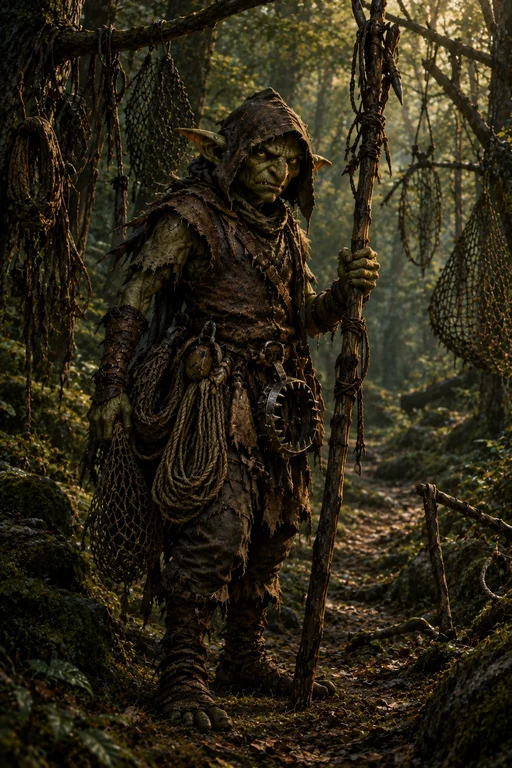
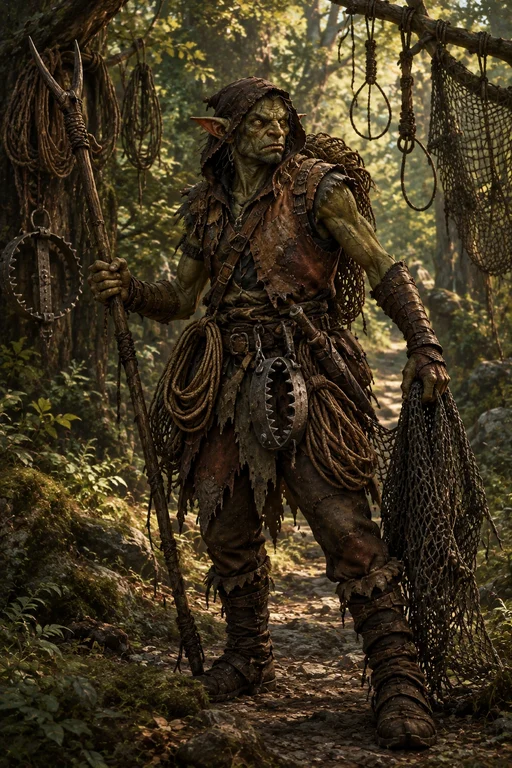
Портреты: загонщик, вор, рогатый заяц, болотная жаба; новый зверолов
Claude-Session: https://claude.ai/code/session_01LqZZvha4EFgFgo5Ve6sugx

diff --git a/www/index.html b/www/index.html
@@ -1780,10 +1780,10 @@ const DISTRICTS = [
 
 // Готовые рисованные картинки (webp) заменяют векторные заглушки.
 // Дата сборки для телефона: build.sh вписывает её сюда, в веб-версии строка пустая.
-const APP_BUILD = "25.10.2026 03:27";
-const APP_VERSION = 1792880875;                 // номер сборки, тоже вписывает build.sh
+const APP_BUILD = "25.10.2026 03:31";
+const APP_VERSION = 1792881066;                 // номер сборки, тоже вписывает build.sh
 const UPDATE_URL = "https://raw.githubusercontent.com/Sayat9/Sputnik/main/www/";
-const RASTER = new Set(["items/mace", "items/warhammer", "items/armor-leather", "items/armor-hide", "items/armor-chainmail", "items/steel-dagger", "items/steel-sword", "items/steel-greatsword", "items/steel-shield", "items/steel-tower-shield", "items/shortbow", "items/longbow", "items/rapier", "items/shield", "items/tower-shield", "items/unknown-mushroom", "items/stone-9", "items/stone-8", "items/stone-7", "items/ration", "items/potion", "items/torch", "items/arrows", "items/clothes", "items/shovel", "items/shovel-good", "items/shovel-best", "items/dagger", "items/sword", "items/greatsword", "items/spear", "monsters/goblin-king-face", "monsters/goblin-king-full", "monsters/goblin-bomber-face", "monsters/goblin-bomber-full", "monsters/hobgoblin-shield-face", "monsters/hobgoblin-shield-full", "races/barbarian", "races/human", "races/dwarf", "races/beastkin", "races/fairy", "races/dragon", "monsters/goblin-face", "monsters/goblin-full", "monsters/goblin-archer-face", "monsters/goblin-archer-full", "monsters/goblin-sword-face", "monsters/goblin-sword-full", "monsters/goblin-spear-face", "monsters/goblin-spear-full", "monsters/wolf-face", "monsters/wolf-full", "monsters/fox-face", "monsters/fox-full", "monsters/mouse-face", "monsters/mouse-full", "monsters/bat-face", "monsters/bat-full", "monsters/hobgoblin-face", "monsters/hobgoblin-full", "monsters/zombie-face", "monsters/zombie-full", "monsters/skeleton-face", "monsters/skeleton-full", "monsters/skeleton-archer-face", "monsters/skeleton-archer-full", "monsters/ghoul-face", "monsters/ghoul-full", "monsters/dark-bear-face", "monsters/dark-bear-full", "monsters/skeleton-warrior-face", "monsters/skeleton-warrior-full", "monsters/living-stone-face", "monsters/living-stone-full", "monsters/wisp-face", "monsters/wisp-full", "monsters/pixie-face", "monsters/pixie-full", "monsters/green-boulder-face", "monsters/green-boulder-full", "monsters/stone-guardian-face", "monsters/stone-guardian-full", "monsters/spider-queen-face", "monsters/spider-queen-full", "monsters/ash-wraith-face", "monsters/ash-wraith-full", "monsters/ash-spirit-face", "monsters/ash-spirit-full", "monsters/plague-fat-face", "monsters/plague-fat-full", "monsters/bone-hound-face", "monsters/bone-hound-full", "monsters/dust-crawler-face", "monsters/dust-crawler-full", "monsters/faceless-ringer-face", "monsters/faceless-ringer-full", "monsters/mirror-dead-face", "monsters/mirror-dead-full", "monsters/whisperer-face", "monsters/whisperer-full", "monsters/morok-face", "monsters/morok-full", "monsters/grey-shade-face", "monsters/grey-shade-full", "monsters/blackwing-face", "monsters/blackwing-full", "monsters/swamp-fang-face", "monsters/swamp-fang-full", "monsters/web-spider-face", "monsters/web-spider-full", "monsters/goblin-shaman-face", "monsters/goblin-shaman-full", "monsters/goblin-assassin-face", "monsters/goblin-assassin-full", "monsters/goblin-trapper-face", "monsters/goblin-trapper-full", "monsters/goblin-elder-face", "monsters/goblin-elder-full", "monsters/hobgoblin-brute-face", "monsters/hobgoblin-brute-full", "monsters/hobgoblin-thrower-face", "monsters/hobgoblin-thrower-full", "items/compass"]);
+const RASTER = new Set(["items/mace", "items/warhammer", "items/armor-leather", "items/armor-hide", "items/armor-chainmail", "items/steel-dagger", "items/steel-sword", "items/steel-greatsword", "items/steel-shield", "items/steel-tower-shield", "items/shortbow", "items/longbow", "items/rapier", "items/shield", "items/tower-shield", "items/unknown-mushroom", "items/stone-9", "items/stone-8", "items/stone-7", "items/ration", "items/potion", "items/torch", "items/arrows", "items/clothes", "items/shovel", "items/shovel-good", "items/shovel-best", "items/dagger", "items/sword", "items/greatsword", "items/spear", "monsters/goblin-king-face", "monsters/goblin-king-full", "monsters/goblin-bomber-face", "monsters/goblin-bomber-full", "monsters/hobgoblin-shield-face", "monsters/hobgoblin-shield-full", "races/barbarian", "races/human", "races/dwarf", "races/beastkin", "races/fairy", "races/dragon", "monsters/goblin-face", "monsters/goblin-full", "monsters/goblin-archer-face", "monsters/goblin-archer-full", "monsters/goblin-sword-face", "monsters/goblin-sword-full", "monsters/goblin-spear-face", "monsters/goblin-spear-full", "monsters/wolf-face", "monsters/wolf-full", "monsters/fox-face", "monsters/fox-full", "monsters/mouse-face", "monsters/mouse-full", "monsters/bat-face", "monsters/bat-full", "monsters/hobgoblin-face", "monsters/hobgoblin-full", "monsters/zombie-face", "monsters/zombie-full", "monsters/skeleton-face", "monsters/skeleton-full", "monsters/skeleton-archer-face", "monsters/skeleton-archer-full", "monsters/ghoul-face", "monsters/ghoul-full", "monsters/dark-bear-face", "monsters/dark-bear-full", "monsters/skeleton-warrior-face", "monsters/skeleton-warrior-full", "monsters/living-stone-face", "monsters/living-stone-full", "monsters/wisp-face", "monsters/wisp-full", "monsters/pixie-face", "monsters/pixie-full", "monsters/green-boulder-face", "monsters/green-boulder-full", "monsters/stone-guardian-face", "monsters/stone-guardian-full", "monsters/spider-queen-face", "monsters/spider-queen-full", "monsters/ash-wraith-face", "monsters/ash-wraith-full", "monsters/ash-spirit-face", "monsters/ash-spirit-full", "monsters/plague-fat-face", "monsters/plague-fat-full", "monsters/bone-hound-face", "monsters/bone-hound-full", "monsters/dust-crawler-face", "monsters/dust-crawler-full", "monsters/faceless-ringer-face", "monsters/faceless-ringer-full", "monsters/mirror-dead-face", "monsters/mirror-dead-full", "monsters/whisperer-face", "monsters/whisperer-full", "monsters/morok-face", "monsters/morok-full", "monsters/grey-shade-face", "monsters/grey-shade-full", "monsters/blackwing-face", "monsters/blackwing-full", "monsters/swamp-fang-face", "monsters/swamp-fang-full", "monsters/web-spider-face", "monsters/web-spider-full", "monsters/goblin-shaman-face", "monsters/goblin-shaman-full", "monsters/goblin-assassin-face", "monsters/goblin-assassin-full", "monsters/goblin-trapper-face", "monsters/goblin-trapper-full", "monsters/goblin-elder-face", "monsters/goblin-elder-full", "monsters/hobgoblin-brute-face", "monsters/hobgoblin-brute-full", "monsters/hobgoblin-thrower-face", "monsters/hobgoblin-thrower-full", "monsters/hobgoblin-driver-face", "monsters/hobgoblin-driver-full", "monsters/goblin-thief-face", "monsters/goblin-thief-full", "monsters/horned-hare-face", "monsters/horned-hare-full", "monsters/swamp-toad-face", "monsters/swamp-toad-full", "items/compass"]);
 const artPath = p => `assets/${p}.${RASTER.has(p) ? "webp" : "svg"}`;
 const ART = {
   weapon: id => artPath(`items/${id}`),

diff --git a/app/index.html b/app/index.html
@@ -1778,7 +1778,7 @@ const DISTRICTS = [
 const APP_BUILD = "";
 const APP_VERSION = 0;                 // номер сборки, тоже вписывает build.sh
 const UPDATE_URL = "https://raw.githubusercontent.com/Sayat9/Sputnik/main/www/";
-const RASTER = new Set(["items/mace", "items/warhammer", "items/armor-leather", "items/armor-hide", "items/armor-chainmail", "items/steel-dagger", "items/steel-sword", "items/steel-greatsword", "items/steel-shield", "items/steel-tower-shield", "items/shortbow", "items/longbow", "items/rapier", "items/shield", "items/tower-shield", "items/unknown-mushroom", "items/stone-9", "items/stone-8", "items/stone-7", "items/ration", "items/potion", "items/torch", "items/arrows", "items/clothes", "items/shovel", "items/shovel-good", "items/shovel-best", "items/dagger", "items/sword", "items/greatsword", "items/spear", "monsters/goblin-king-face", "monsters/goblin-king-full", "monsters/goblin-bomber-face", "monsters/goblin-bomber-full", "monsters/hobgoblin-shield-face", "monsters/hobgoblin-shield-full", "races/barbarian", "races/human", "races/dwarf", "races/beastkin", "races/fairy", "races/dragon", "monsters/goblin-face", "monsters/goblin-full", "monsters/goblin-archer-face", "monsters/goblin-archer-full", "monsters/goblin-sword-face", "monsters/goblin-sword-full", "monsters/goblin-spear-face", "monsters/goblin-spear-full", "monsters/wolf-face", "monsters/wolf-full", "monsters/fox-face", "monsters/fox-full", "monsters/mouse-face", "monsters/mouse-full", "monsters/bat-face", "monsters/bat-full", "monsters/hobgoblin-face", "monsters/hobgoblin-full", "monsters/zombie-face", "monsters/zombie-full", "monsters/skeleton-face", "monsters/skeleton-full", "monsters/skeleton-archer-face", "monsters/skeleton-archer-full", "monsters/ghoul-face", "monsters/ghoul-full", "monsters/dark-bear-face", "monsters/dark-bear-full", "monsters/skeleton-warrior-face", "monsters/skeleton-warrior-full", "monsters/living-stone-face", "monsters/living-stone-full", "monsters/wisp-face", "monsters/wisp-full", "monsters/pixie-face", "monsters/pixie-full", "monsters/green-boulder-face", "monsters/green-boulder-full", "monsters/stone-guardian-face", "monsters/stone-guardian-full", "monsters/spider-queen-face", "monsters/spider-queen-full", "monsters/ash-wraith-face", "monsters/ash-wraith-full", "monsters/ash-spirit-face", "monsters/ash-spirit-full", "monsters/plague-fat-face", "monsters/plague-fat-full", "monsters/bone-hound-face", "monsters/bone-hound-full", "monsters/dust-crawler-face", "monsters/dust-crawler-full", "monsters/faceless-ringer-face", "monsters/faceless-ringer-full", "monsters/mirror-dead-face", "monsters/mirror-dead-full", "monsters/whisperer-face", "monsters/whisperer-full", "monsters/morok-face", "monsters/morok-full", "monsters/grey-shade-face", "monsters/grey-shade-full", "monsters/blackwing-face", "monsters/blackwing-full", "monsters/swamp-fang-face", "monsters/swamp-fang-full", "monsters/web-spider-face", "monsters/web-spider-full", "monsters/goblin-shaman-face", "monsters/goblin-shaman-full", "monsters/goblin-assassin-face", "monsters/goblin-assassin-full", "monsters/goblin-trapper-face", "monsters/goblin-trapper-full", "monsters/goblin-elder-face", "monsters/goblin-elder-full", "monsters/hobgoblin-brute-face", "monsters/hobgoblin-brute-full", "monsters/hobgoblin-thrower-face", "monsters/hobgoblin-thrower-full", "items/compass"]);
+const RASTER = new Set(["items/mace", "items/warhammer", "items/armor-leather", "items/armor-hide", "items/armor-chainmail", "items/steel-dagger", "items/steel-sword", "items/steel-greatsword", "items/steel-shield", "items/steel-tower-shield", "items/shortbow", "items/longbow", "items/rapier", "items/shield", "items/tower-shield", "items/unknown-mushroom", "items/stone-9", "items/stone-8", "items/stone-7", "items/ration", "items/potion", "items/torch", "items/arrows", "items/clothes", "items/shovel", "items/shovel-good", "items/shovel-best", "items/dagger", "items/sword", "items/greatsword", "items/spear", "monsters/goblin-king-face", "monsters/goblin-king-full", "monsters/goblin-bomber-face", "monsters/goblin-bomber-full", "monsters/hobgoblin-shield-face", "monsters/hobgoblin-shield-full", "races/barbarian", "races/human", "races/dwarf", "races/beastkin", "races/fairy", "races/dragon", "monsters/goblin-face", "monsters/goblin-full", "monsters/goblin-archer-face", "monsters/goblin-archer-full", "monsters/goblin-sword-face", "monsters/goblin-sword-full", "monsters/goblin-spear-face", "monsters/goblin-spear-full", "monsters/wolf-face", "monsters/wolf-full", "monsters/fox-face", "monsters/fox-full", "monsters/mouse-face", "monsters/mouse-full", "monsters/bat-face", "monsters/bat-full", "monsters/hobgoblin-face", "monsters/hobgoblin-full", "monsters/zombie-face", "monsters/zombie-full", "monsters/skeleton-face", "monsters/skeleton-full", "monsters/skeleton-archer-face", "monsters/skeleton-archer-full", "monsters/ghoul-face", "monsters/ghoul-full", "monsters/dark-bear-face", "monsters/dark-bear-full", "monsters/skeleton-warrior-face", "monsters/skeleton-warrior-full", "monsters/living-stone-face", "monsters/living-stone-full", "monsters/wisp-face", "monsters/wisp-full", "monsters/pixie-face", "monsters/pixie-full", "monsters/green-boulder-face", "monsters/green-boulder-full", "monsters/stone-guardian-face", "monsters/stone-guardian-full", "monsters/spider-queen-face", "monsters/spider-queen-full", "monsters/ash-wraith-face", "monsters/ash-wraith-full", "monsters/ash-spirit-face", "monsters/ash-spirit-full", "monsters/plague-fat-face", "monsters/plague-fat-full", "monsters/bone-hound-face", "monsters/bone-hound-full", "monsters/dust-crawler-face", "monsters/dust-crawler-full", "monsters/faceless-ringer-face", "monsters/faceless-ringer-full", "monsters/mirror-dead-face", "monsters/mirror-dead-full", "monsters/whisperer-face", "monsters/whisperer-full", "monsters/morok-face", "monsters/morok-full", "monsters/grey-shade-face", "monsters/grey-shade-full", "monsters/blackwing-face", "monsters/blackwing-full", "monsters/swamp-fang-face", "monsters/swamp-fang-full", "monsters/web-spider-face", "monsters/web-spider-full", "monsters/goblin-shaman-face", "monsters/goblin-shaman-full", "monsters/goblin-assassin-face", "monsters/goblin-assassin-full", "monsters/goblin-trapper-face", "monsters/goblin-trapper-full", "monsters/goblin-elder-face", "monsters/goblin-elder-full", "monsters/hobgoblin-brute-face", "monsters/hobgoblin-brute-full", "monsters/hobgoblin-thrower-face", "monsters/hobgoblin-thrower-full", "monsters/hobgoblin-driver-face", "monsters/hobgoblin-driver-full", "monsters/goblin-thief-face", "monsters/goblin-thief-full", "monsters/horned-hare-face", "monsters/horned-hare-full", "monsters/swamp-toad-face", "monsters/swamp-toad-full", "items/compass"]);
 const artPath = p => `assets/${p}.${RASTER.has(p) ? "webp" : "svg"}`;
 const ART = {
   weapon: id => artPath(`items/${id}`),
